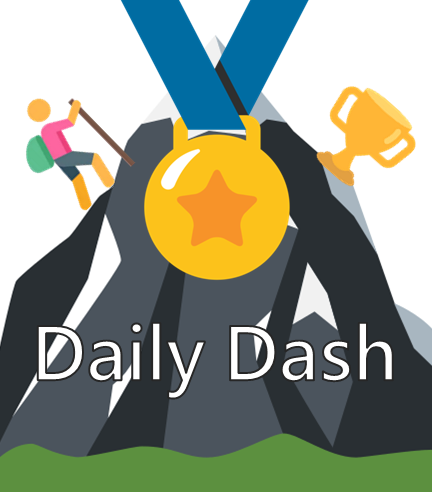
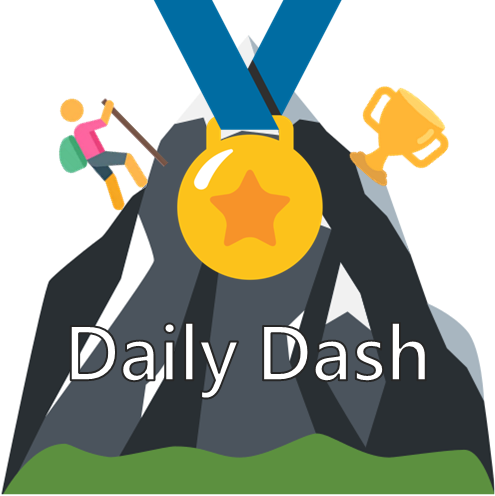
fixed edit goal test, caught bugs in details screens

diff --git a/frontend/app/screens/goal-detail-screen/goal-detail-screen.tsx b/frontend/app/screens/goal-detail-screen/goal-detail-screen.tsx
@@ -133,15 +133,6 @@ export const GoalDetailScreen = observer(function GoalDetailScreen() {
     LtGoalFormStore.setId(id);
     LtGoalFormStore.setDescription(description);
 
-    // for (const day of [[monday, "mon"], [tuesday, "tue"], [wednesday, "wed"], [thursday, "thu"], [friday, "fri"], [saturday, "sat"], [sunday, "sun"]]) {
-    //   const arr = day[0];
-    //   const weekday = day[1] as string;
-    //   for (const time of arr) {
-    //     const mins = (time[0] % 60).toString();
-    //     const hrs = (Math.floor(time[0] / 60)).toString();
-    //     LtGoalFormStore.initSTgoals(time[1], weekday, hrs, mins, time[2]);
-    //   }
-    // }
     for (const currStg of STgoals){
       let timeSlots = []
       for (const day of [[currStg.mon, "mon"], [currStg.tue, "tue"], [currStg.wed, "wed"], [currStg.thu, "thu"], [currStg.fri, "fri"], [currStg.sat, "sat"], [currStg.sun, "sun"]]) {
@@ -167,60 +158,61 @@ export const GoalDetailScreen = observer(function GoalDetailScreen() {
   const sunday = [];
 
   for (const goal of STgoals) {
-    if (goal.mon.length > 0) monday.push([goal.mon[0], goal.title, goal.id, "Monday"]);
-    if (goal.tue.length > 0) tuesday.push([goal.tue[0], goal.title, goal.id, "Tuesday"]);
-    if (goal.wed.length > 0) wednesday.push([goal.wed[0], goal.title, goal.id, "Wednesday"]);
-    if (goal.thu.length > 0) thursday.push([goal.thu[0], goal.title,, goal.id, "Thursday"]);
-    if (goal.fri.length > 0) friday.push([goal.fri[0], goal.title, goal.id], "Friday");
-    if (goal.sat.length > 0) saturday.push([goal.sat[0], goal.title, goal.id, "Saturday"]);
-    if (goal.sun.length > 0) sunday.push([goal.sun[0], goal.title, goal.id, "Sunday"]);
+    for (let i = 0; i < goal.mon.length; i++) monday.push([goal.mon[i], goal.title, goal.id])
+    for (let i = 0; i < goal.tue.length; i++) tuesday.push([goal.tue[i], goal.title, goal.id])
+    for (let i = 0; i < goal.wed.length; i++) wednesday.push([goal.wed[i], goal.title, goal.id])
+    for (let i = 0; i < goal.thu.length; i++) thursday.push([goal.thu[i], goal.title, goal.id])
+    for (let i = 0; i < goal.fri.length; i++) friday.push([goal.fri[i], goal.title, goal.id])
+    for (let i = 0; i < goal.sat.length; i++) saturday.push([goal.sat[i], goal.title, goal.id])
+    for (let i = 0; i < goal.sun.length; i++) sunday.push([goal.sun[i], goal.title, goal.id])
   }
 
   if (monday.length > 0) {
     allSTGoals.push({
-      title: monday[0][3],
+      title: "Monday",
       data: monday.sort(sortFunction)
     });
   }
   if (tuesday.length > 0) {
     allSTGoals.push({
-      title: tuesday[0][3],
+      title: "Tuesday",
       data: tuesday.sort(sortFunction)
     });
   }
   if (wednesday.length > 0) {
     allSTGoals.push({
-      title: wednesday[0][3],
+      title: "Wednesday",
       data: wednesday.sort(sortFunction)
     });
   }
   if (thursday.length > 0) {
     allSTGoals.push({
-      title: thursday[0][3],
+      title: "Thursday",
       data: thursday.sort(sortFunction)
     });
   }
   if (friday.length > 0) {
     allSTGoals.push({
-      title: friday[0][3],
+      title: "Friday",
       data: friday.sort(sortFunction)
     });
+    console.log(allSTGoals)
   }
   if (saturday.length > 0) {
     allSTGoals.push({
-      title: saturday[0][3],
+      title: "Saturday",
       data: saturday.sort(sortFunction)
     });
   }
   if (sunday.length > 0) {
     allSTGoals.push({
-      title: sunday[0][3],
+      title: "Sunday",
       data: sunday.sort(sortFunction)
     });
   }
 
-  function deleteThisGoal(goalId) {
-    goalsStore.deleteLTgoal(id).then(res => {
+  function deleteThisGoal() {
+    goalsStore.deleteLTgoal(id).then(() => {
       goalsStore.getAllGoals();
       dailyGoalStore.getGoalsForDay(getDay(true));
     });
@@ -244,7 +236,7 @@ export const GoalDetailScreen = observer(function GoalDetailScreen() {
           text: "No",
           style: "cancel"
         },
-        { text: "Yes", onPress: () => deleteThisGoal(id) }
+        { text: "Yes", onPress: () => deleteThisGoal() }
       ],
       { cancelable: false }
     );

diff --git a/frontend/app/screens/common-goal-detail-screen/common-goal-detail-screen.tsx b/frontend/app/screens/common-goal-detail-screen/common-goal-detail-screen.tsx
@@ -154,54 +154,55 @@ export const CommonGoalDetailScreen = observer(function CommonGoalDetailScreen()
   const sunday = [];
 
   for (const goal of STgoals) {
-    if (goal.mon.length > 0) monday.push([goal.mon[0], goal.title, goal.id, "Monday"]);
-    if (goal.tue.length > 0) tuesday.push([goal.tue[0], goal.title, goal.id, "Tuesday"]);
-    if (goal.wed.length > 0) wednesday.push([goal.wed[0], goal.title, goal.id, "Wednesday"]);
-    if (goal.thu.length > 0) thursday.push([goal.thu[0], goal.title,, goal.id, "Thursday"]);
-    if (goal.fri.length > 0) friday.push([goal.fri[0], goal.title, goal.id], "Friday");
-    if (goal.sat.length > 0) saturday.push([goal.sat[0], goal.title, goal.id, "Saturday"]);
-    if (goal.sun.length > 0) sunday.push([goal.sun[0], goal.title, goal.id, "Sunday"]);
+    for (let i = 0; i < goal.mon.length; i++) monday.push([goal.mon[i], goal.title, goal.id])
+    for (let i = 0; i < goal.tue.length; i++) tuesday.push([goal.tue[i], goal.title, goal.id])
+    for (let i = 0; i < goal.wed.length; i++) wednesday.push([goal.wed[i], goal.title, goal.id])
+    for (let i = 0; i < goal.thu.length; i++) thursday.push([goal.thu[i], goal.title, goal.id])
+    for (let i = 0; i < goal.fri.length; i++) friday.push([goal.fri[i], goal.title, goal.id])
+    for (let i = 0; i < goal.sat.length; i++) saturday.push([goal.sat[i], goal.title, goal.id])
+    for (let i = 0; i < goal.sun.length; i++) sunday.push([goal.sun[i], goal.title, goal.id])
   }
 
   if (monday.length > 0) {
     allSTGoals.push({
-      title: monday[0][3],
+      title: "Monday",
       data: monday.sort(sortFunction)
     });
   }
   if (tuesday.length > 0) {
     allSTGoals.push({
-      title: tuesday[0][3],
+      title: "Tuesday",
       data: tuesday.sort(sortFunction)
     });
   }
   if (wednesday.length > 0) {
     allSTGoals.push({
-      title: wednesday[0][3],
+      title: "Wednesday",
       data: wednesday.sort(sortFunction)
     });
   }
   if (thursday.length > 0) {
     allSTGoals.push({
-      title: thursday[0][3],
+      title: "Thursday",
       data: thursday.sort(sortFunction)
     });
   }
   if (friday.length > 0) {
     allSTGoals.push({
-      title: friday[0][3],
+      title: "Friday",
       data: friday.sort(sortFunction)
     });
+    console.log(allSTGoals)
   }
   if (saturday.length > 0) {
     allSTGoals.push({
-      title: saturday[0][3],
+      title: "Saturday",
       data: saturday.sort(sortFunction)
     });
   }
   if (sunday.length > 0) {
     allSTGoals.push({
-      title: sunday[0][3],
+      title: "Sunday",
       data: sunday.sort(sortFunction)
     });
   }

diff --git a/frontend/app/screens/welcome-screen/welcome-screen.tsx b/frontend/app/screens/welcome-screen/welcome-screen.tsx
@@ -27,7 +27,7 @@ const styles = StyleSheet.create({
   },
   image: {
     width: windowWidth,
-    height: windowWidth*1.2,
+    height: windowWidth,
     alignContent: "center", 
     alignItems: "center",
   }, 
@@ -110,16 +110,12 @@ export const WelcomeScreen = observer(function WelcomeScreen() {
   const nextScreen = () => navigation.navigate("signInScreen");
 
   return (
-    <View style={FULL}>
+    <View style={FULL} testID="welcomeMessage">
       <Screen style={CONTAINER} preset="scroll" backgroundColor={background}>
         <Image source={require("../../../assets/dp.png")} style={styles.image} />
         <Text style={TITLE_WRAPPER}>
           <Text style={TITLE} text="Welcome to Daily Dash !" />
         </Text>
-        {/* <Text style={TITLE} preset="header" tx="welcomeScreen.readyForLaunch" />
-        <View style={CONTENT_WRAP} testID="welcomeMessage">
-          <Text style={CONTENT}>This is just a template for what should go here.</Text>
-        </View> */}
         <View style={FOOTER_CONTENT}>
           <Button
             testID="nextScreenButton"

diff --git a/frontend/app/screens/home-screen/home-screen.tsx b/frontend/app/screens/home-screen/home-screen.tsx
@@ -314,7 +314,7 @@ export const HomeScreen = observer(function HomeScreen() {
           refreshing={refreshing}
           onRefresh={getGoals}
           renderItem={renderGoal}
-          keyExtractor={(item) => item.id}
+          keyExtractor={(item, index) => item.id + index}
           extraData={[
             { extraDataForMobX: goals.length > 0 ? goals[0].title : "" },
             userStore.timeMode,

diff --git a/frontend/e2e/editGoal.e2e.js b/frontend/e2e/editGoal.e2e.js
@@ -86,7 +86,7 @@ describe("editGoal", () => {
         .toExist()
         .withTimeout(1000)
         await element(by.id("suggestionButton")).tap()
-        await element(by.text("OK")).tap()
+        await element(by.text("DISMISS")).tap()
         await waitFor(element(by.id("submitGoalButton")))
           .toExist()
           .withTimeout(1000)

diff --git a/frontend/app/screens/signin-screen/signin-screen.tsx b/frontend/app/screens/signin-screen/signin-screen.tsx
@@ -67,10 +67,10 @@ const CONT_TEXT: TextStyle = {
 
 const INVISIBLE: ViewStyle = {
   position: "absolute",
-  top: 100,
+  top: 0,
   height: 0,
   width: 0,
-  left: 100,
+  left:10,
   backgroundColor: "white"
 };
 
